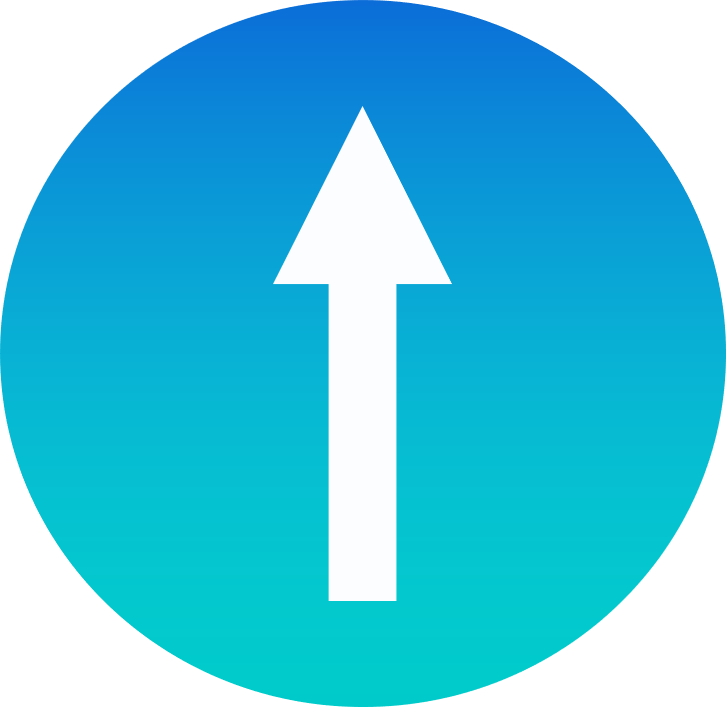
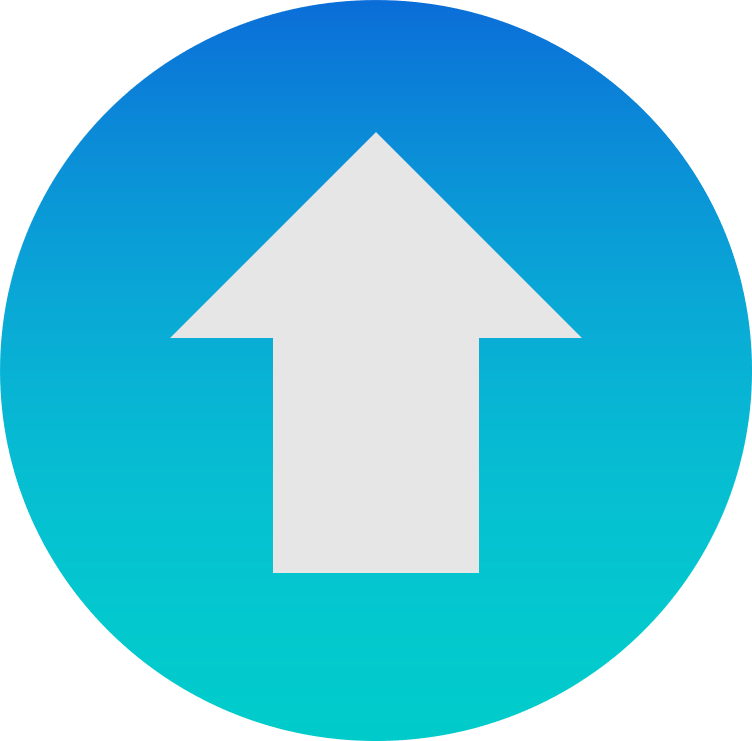
mudanca no ícone de VoltarTopo

Changed region(s): [[0.2121, 0.1867, 0.7879, 0.8713], [0.4848, 0.1556, 0.5152, 0.1867], [0.4242, 0.9958, 0.4545, 1.0]]

diff --git a/script/index.js b/script/index.js
@@ -79,7 +79,7 @@ const labels = [
     document.getElementById('myChart'),
     config
   );
-  // JAVASCRIPT
+
 $(document).ready(function() {
 	$('#subir').click(function(){
 		$('html, body').animate({scrollTop:0}, 'slow');
